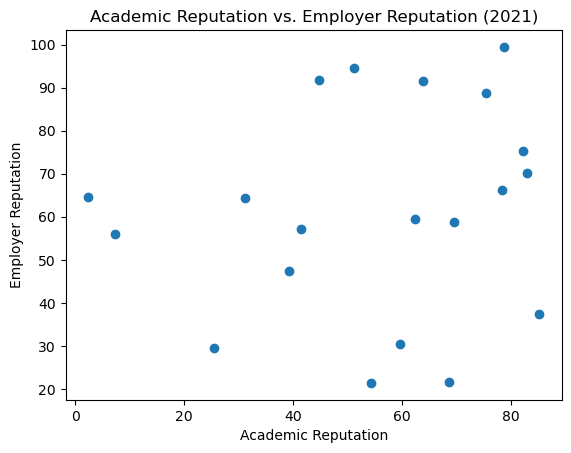
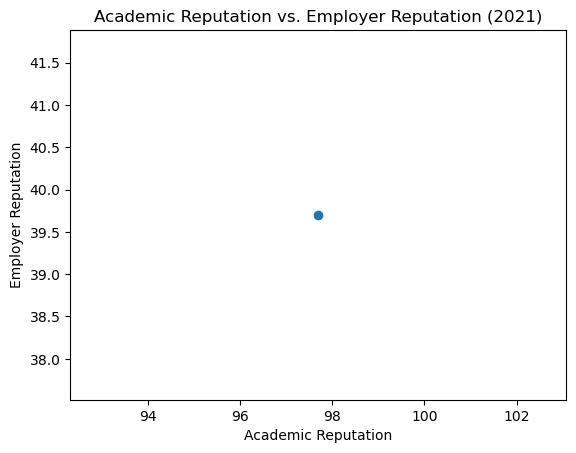
q5

diff --git a/part1.py b/part1.py
@@ -105,6 +105,18 @@ def load_input():
     # ...and keep this line to return the dataframes.
     return [df_2019, df_2020, df_2021]
 
+# New load function needed for single line dataframes
+# To be used in part2
+def q5b_load_input():
+    dfs = []
+    for year in [2019, 2020, 2021]:
+        df = pd.read_csv(f"data/{year}_singular.csv", encoding="latin-1")
+        df.columns = df.columns.str.lower()
+        df = df[NEW_COLUMNS]
+        dfs.append(df)
+
+    return dfs
+
 def q1(dfs):
     # As the "answer" to this part, let's just return the number of dataframes.
     # Check that your answer shows up in part1-answers.txt.
@@ -247,7 +259,7 @@ def q4(dfs):
     # Loop through each dataframe and sample 5 rows
     for df in dfs:
         university_column = df.columns.get_loc("university") # Get the index of the university column
-        df_sample = df.sample(5) # Get a random sample of 5 rows
+        df_sample = df.sample(min(5, len(df))) # Get a random sample of 5 rows (for part1) and only 1 row for part2 single dataset
         universities = df_sample.iloc[:, university_column].values.tolist() # Get the university name at the random index (value only)
 
         # Append the list of universities to the list of lists
@@ -579,6 +591,30 @@ def q12a(avg_2021):
 
     return (top_country, declined.iloc[0]['region'])
 
+# Rewrite it to load in 2019 dataset with only one observation
+def q12a_adjusted(avg_2021):
+    # Get the country with the highest overall score in 2021
+    avg_2021_sorted = avg_2021.sort_values(by='overall score', ascending=False)
+    top_country = avg_2021_sorted.iloc[0]['region'] 
+
+    # Get a country that went down in the rankings between 2019 and 2021
+    df_2019 = q5b_load_input()[0] # Load in 2019 dataframe with singular value
+    avg_2019 = df_2019.groupby('region')[['overall score']].mean().reset_index()
+    avg_2019_sorted = avg_2019.sort_values(by='overall score', ascending=False)
+
+    # Create ranking columns for merge
+    avg_2019_sorted['ranking'] = range(1, len(avg_2019_sorted) + 1)
+    avg_2021_sorted['ranking'] = range(1, len(avg_2021_sorted) + 1)
+
+    # Merge to compare rankings directly
+    merged = pd.merge(avg_2019_sorted, avg_2021_sorted, on='region', suffixes=('_2019', '_2021'))
+    declined = merged[merged['ranking_2021'] > merged['ranking_2019']]
+
+    # Declined may be empty - handle case to prevent indexerror
+    declined_country = (declined.iloc[0]['region'] if not declined.empty else None)
+
+    return (top_country, declined_country)
+
 """
 12b.
 Comment on why the country above is at the top of the list.
@@ -794,7 +830,8 @@ def q18(dfs):
     print(corr_matrix)
     
     plt.figure()
-    sn.heatmap(corr_matrix, annot=True) # Create visual for correlation matrix
+    # Filling NAs with 0 to prevent errors for part2 with only one observation
+    sn.heatmap(corr_matrix.fillna(0), annot=True) # Create visual for correlation matrix
     plt.savefig('output/part1-18.png', bbox_inches='tight') 
 
     return "output/part1-18.png"
@@ -903,6 +940,23 @@ def q21():
     # Read in falsified file
     df_2021 = pd.read_csv('data/2021_falsified.csv', encoding='latin-1')
     return df_2021['University'].head(10).tolist() 
+
+# Adjusted for one line csv file, to be used in part2
+def q21_adjusted():
+    # Read in source with one observation
+    df_2021 = pd.read_csv('data/2021_singular.csv', encoding='latin-1')
+
+    # Perform identical operations
+    mask = df_2021['university'] == 'University of California, Berkeley (UCB)' # Only modify Berkeley observation
+    df_2021.loc[mask, 'overall score'] = df_2021['overall score'].max() + 1 # Make Berkeley's overall score larger than current max (should be 101)
+    df_2021 = df_2021.sort_values(by='overall score', ascending=False)
+
+    # Write back to falsified file (new singular one)
+    df_2021.to_csv('data/2021_falsified_singular.csv', encoding='latin-1', index=False)
+
+    # Read in falsified file (new singular one)
+    df_2021 = pd.read_csv('data/2021_falsified_singular.csv', encoding='latin-1')
+    return 
 
 """
 22. Exploring data manipulation and falsification, continued

diff --git a/part2.py b/part2.py
@@ -12,6 +12,7 @@ to report which one is faster.
 import part1
 import time 
 import matplotlib.pyplot as plt
+import pandas as pd
 
 """
 === Questions 1-5: Throughput and Latency Helpers ===
@@ -288,12 +289,82 @@ You may need to write a new version of the pipeline for this to work.
 # part1.PART_1_PIPELINE
 
 def q5a():
-    # Return the throughput of the pipeline in part 1.
-    raise NotImplementedError
+    t = ThroughputHelper()
+    # Get size 
+    dfs = part1.load_input()
+    input_size = sum(len(df) for df in dfs)
+    # Add part1 pipeline
+    t.add_pipeline("part1_pipeline", input_size, part1.PART_1_PIPELINE)
+    # Generate throughput
+    throughput = t.compare_throughput()
+
+    return throughput[0]
+
+# Create new one line datasets and write them back to csv for latency problem
+# I'm going to retain the row for UC Berkeley across the three dataframes
+# This allows merge to work successfully (since the same University is in all dataframes) and requires the least adjustment to questions 20/21
+
+def q5b_create_dataset():
+    dfs = part1.load_input()
+    year = 2019 # Start with first year (2019) and increment to 2021
+    for df in dfs:
+        df_singular = df[df['university'] == 'University of California, Berkeley (UCB)'].copy() # Retain only UC Berkeley observation
+        assert len(df_singular) == 1
+        df_singular.to_csv(f"data/{year}_singular.csv", encoding='latin-1', index=False) # Create and write out dataframes
+        year += 1
+    return 
+
+# Run this first to create necessary files
+q5b_create_dataset()
+
+def PART_1_PIPELINE_SINGLE():
+    dfs = part1.q5b_load_input()
+    # Q1-Q6
+    part1.q1(dfs)
+    part1.q2(dfs)
+    part1.q3(dfs)
+    part1.q4(dfs)
+    part1.q5a(dfs)
+    part1.q5b(dfs)
+    part1.q5c()
+    part1.q6c()
+
+    # Q7-Q10
+    part1.q7(dfs)
+    part1.q8a(dfs)
+    part1.q9(dfs)
+
+    avg_2021 = part1.q10_helper(dfs)
+    part1.q10(avg_2021)
+
+    # Q11-Q14
+    part1.q11(avg_2021)
+    part1.q12a_adjusted(avg_2021) # Adjusted to use new dataframe with one row
+    part1.q13a(avg_2021)
+    part1.q14a(avg_2021)
+
+    # Q15-Q17
+    top_10 = part1.q15_helper(dfs)
+    part1.q15(top_10)
+    part1.q16(top_10)
+    part1.q17a(top_10)
+
+    # Q18
+    part1.q18(dfs)
+
+    # Q20-Q21
+    part1.q20a(dfs)
+    part1.q20b(dfs)
+    part1.q21_adjusted() # Adjusted to use new dataframe with one row
+    
+    return
 
 def q5b():
-    # Return the latency of the pipeline in part 1.
-    raise NotImplementedError
+    l = LatencyHelper()
+    l.add_pipeline("part1_pipeline_singular", PART_1_PIPELINE_SINGLE)
+    latency = l.compare_latency()
+
+    return latency[0]
 
 """
 ===== Questions 6-10: Performance Comparison 1 =====
